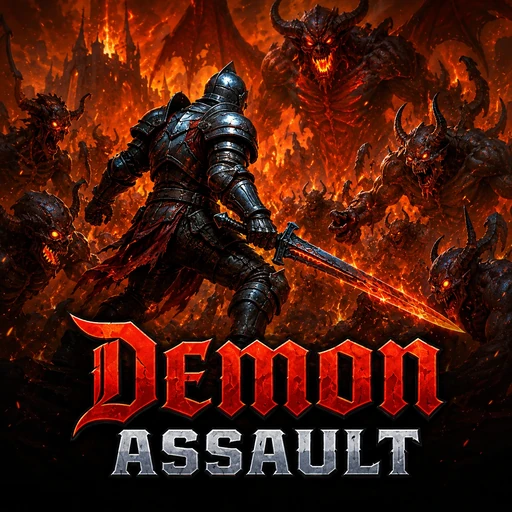
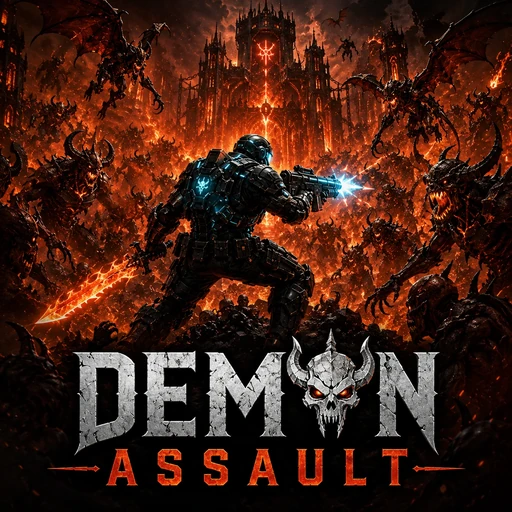
Hub v0.5.3: swap in new Demon Assault tile art
Replace demon-assault-tile.webp with the new icon (armored soldier vs
demon horde), 512x512 WebP via the same PIL pipeline.

diff --git a/index.html b/index.html
@@ -300,7 +300,7 @@
 
     </div>
 
-    <footer>Big Run Studios — CrashArcade · Internal Prototype · v0.5.2</footer>
+    <footer>Big Run Studios — CrashArcade · Internal Prototype · v0.5.3</footer>
   </div>
 
   <nav class="botnav" aria-label="Primary">